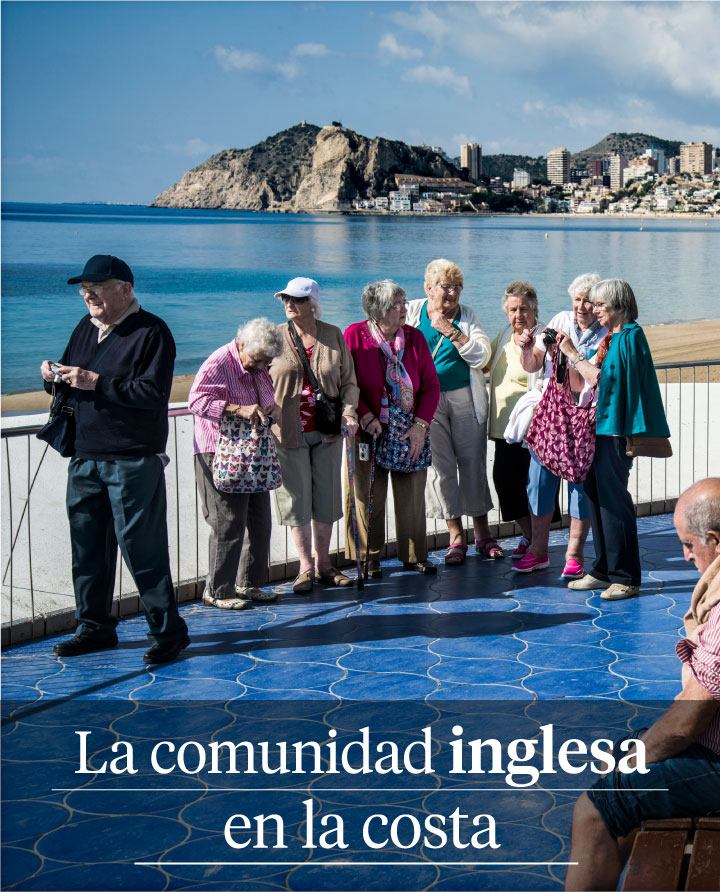
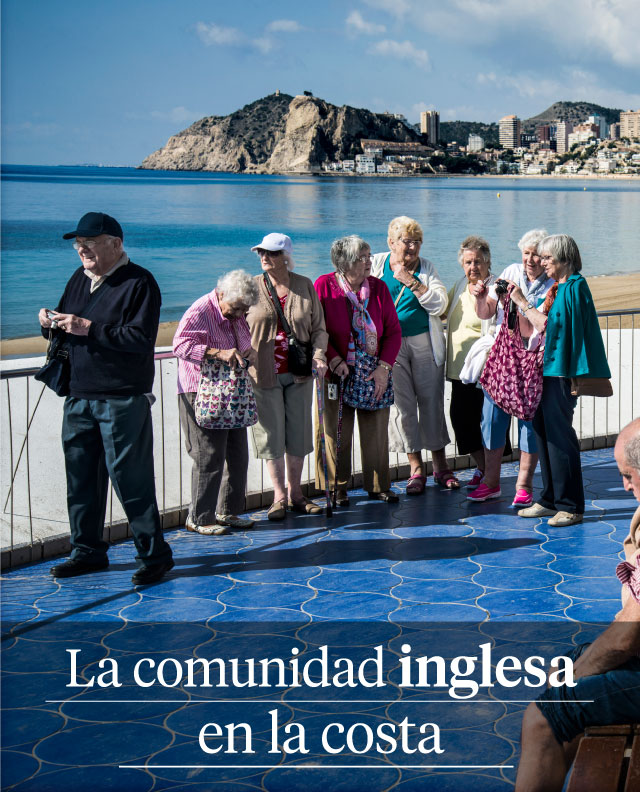
Add files via upload

diff --git a/IntroInglesesMovil/Separadores.html b/IntroInglesesMovil/Separadores.html
@@ -1,5 +1,5 @@
 
-<!-- Generated by ai2html v0.100.0 - 2020-12-04 20:05 -->
+<!-- Generated by ai2html v0.100.0 - 2020-12-05 01:37 -->
 <!-- ai file: Separadores.ai -->
 <style media="screen,print">
 	#g-Separadores-box ,
@@ -33,11 +33,11 @@
 <div id="g-Separadores-box" class="ai2html">
 
 	<!-- Artboard: IntroInglesesMovil -->
-	<div id="g-Separadores-IntroInglesesMovil" class="g-artboard" style="max-width: 360px;max-height: 446px" data-aspect-ratio="0.807" data-min-width="0">
-<div style="padding: 0 0 123.8889% 0;"></div>
+	<div id="g-Separadores-IntroInglesesMovil" class="g-artboard" style="max-width: 320px;max-height: 396px" data-aspect-ratio="0.807" data-min-width="0">
+<div style="padding: 0 0 123.8406% 0;"></div>
 		<img id="g-Separadores-IntroInglesesMovil-img" class="g-aiImg" alt="" src="Separadores-IntroInglesesMovil.jpg"/>
 	</div>
 
 </div>
 
-<!-- End ai2html - 2020-12-04 20:05 -->
+<!-- End ai2html - 2020-12-05 01:37 -->
